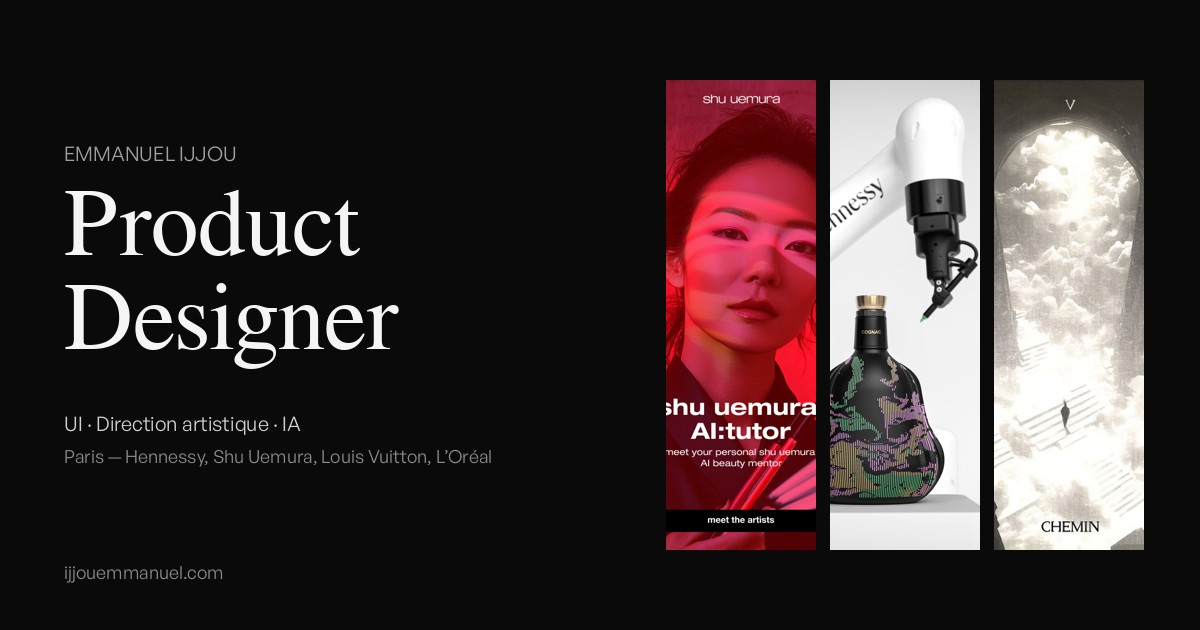
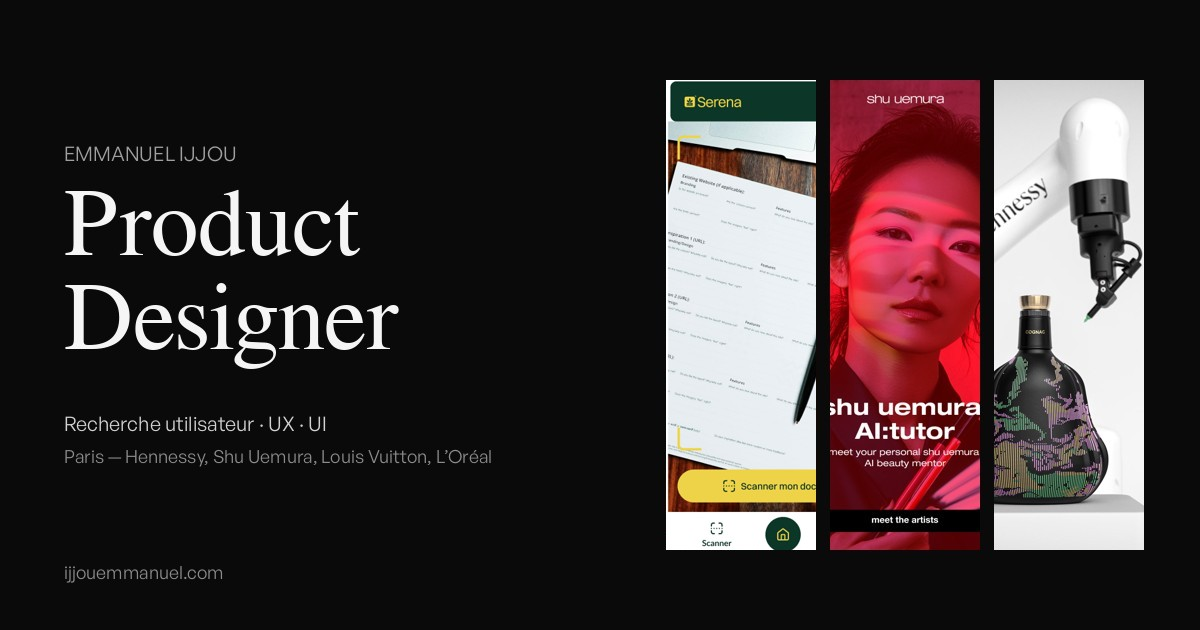
Positionnement produit : 2 groupes de projets, textes recentrés UX
- Accueil : « Product design » (Serena, Shu Uemura, Hennessy, Z_Lab) puis
  intertitre « Explorations visuelles » (PAF, Aether, Pleated, SPECTRE,
  Recherche IA) ; nom du groupe à côté du compteur
- Projets IA d'OKCC (SPECTRE, Recherche IA) en fin de liste
- Accroche accueil, titre À propos, description et image d'aperçu orientés
  recherche utilisateur / UX / UI

Claude-Session: https://claude.ai/code/session_01MDN3kr23zT31hCffwKUxgJ

Changed region(s): [[0.555, 0.1206, 0.9558, 0.8746], [0.0617, 0.6635, 0.2775, 0.6937], [0.925, 0.8444, 0.9558, 0.8746]]

diff --git a/src/app/page.tsx b/src/app/page.tsx
@@ -1,6 +1,6 @@
 'use client';
 
-import { RefObject, useEffect, useRef, useState } from 'react';
+import { Fragment, RefObject, useEffect, useRef, useState } from 'react';
 import { motion, useScroll, useTransform } from 'framer-motion';
 import Image from 'next/image';
 import Link from 'next/link';
@@ -104,8 +104,8 @@ function Intro() {
       </h1>
       <p className="text-sm md:text-base text-gray-300 leading-relaxed max-w-md">
         {t(
-          'Je conçois des interfaces et des expériences digitales pour le luxe, la beauté et la tech, de la recherche utilisateur à l’UI, avec l’IA comme outil de création.',
-          'I design interfaces and digital experiences for luxury, beauty and tech, from user research to UI, with AI as a creative tool.'
+          'Je conçois des produits digitaux clairs et utiles : recherche utilisateur, parcours, wireframes, puis UI desktop et mobile.',
+          'I design clear, useful digital products: user research, user flows, wireframes, then desktop and mobile UI.'
         )}
       </p>
       <p className="text-xs text-neutral-400 leading-relaxed max-w-md">
@@ -126,9 +126,33 @@ function Intro() {
   );
 }
 
+function GroupDivider() {
+  const t = useT();
+  return (
+    <motion.section
+      className="w-[78vw] md:w-[30vw] flex-shrink-0 flex flex-col justify-center gap-5 md:gap-6 border-l border-neutral-800 pl-6 md:pl-10"
+      initial={{ opacity: 0 }}
+      whileInView={{ opacity: 1 }}
+      transition={{ duration: 1 }}
+    >
+      <span className="text-[0.7rem] uppercase tracking-widest text-neutral-400">{t('Au-delà du produit', 'Beyond product')}</span>
+      <h2 className="text-[9vw] md:text-[3.2vw] leading-[1.05] font-ivy font-light tracking-tight">
+        {t('Explorations visuelles', 'Visual explorations')}
+      </h2>
+      <p className="text-sm text-gray-300 leading-relaxed max-w-sm">
+        {t(
+          'Projets personnels et projets de studio où j’explore l’image : direction artistique, motion, édition et IA générative.',
+          'Personal and studio projects where I explore imagery: art direction, motion, editorial and generative AI.'
+        )}
+      </p>
+    </motion.section>
+  );
+}
+
 export default function Home() {
   const scrollRef = useRef<HTMLDivElement>(null);
   const cardRefs = useRef<(HTMLDivElement | null)[]>([]);
+  const t = useT();
   const [active, setActive] = useState(0);
   const { scrollXProgress } = useScroll({ container: scrollRef, axis: 'x' });
 
@@ -212,8 +236,13 @@ export default function Home() {
           <Intro />
         </div>
         {projects.map((project, i) => (
+          <Fragment key={project.link}>
+          {project.group === 'explorations' && projects[i - 1]?.group === 'product' && (
+            <div className="snap-center flex-shrink-0">
+              <GroupDivider />
+            </div>
+          )}
           <div
-            key={project.link}
             ref={(el) => {
               cardRefs.current[i] = el;
             }}
@@ -221,6 +250,7 @@ export default function Home() {
           >
             <ProjectSection project={project} index={i} containerRef={scrollRef} />
           </div>
+          </Fragment>
         ))}
       </div>
 
@@ -230,8 +260,14 @@ export default function Home() {
           <motion.div className="h-full bg-white origin-left" style={{ scaleX: scrollXProgress }} />
         </div>
         <div className="flex justify-between items-center text-[0.65rem] md:text-xs tracking-widest text-neutral-400">
-          <span className="tabular-nums">
+          <span className="tabular-nums uppercase">
             <span className="text-white">{String(active + 1).padStart(2, '0')}</span> / {String(projects.length).padStart(2, '0')}
+            <span className="hidden sm:inline">
+              {'  ·  '}
+              {projects[active]?.group === 'product'
+                ? 'Product design'
+                : t('Explorations visuelles', 'Visual explorations')}
+            </span>
           </span>
           <span>© {new Date().getFullYear()} Emmanuel Ijjou</span>
         </div>

diff --git a/src/components/projects.ts b/src/components/projects.ts
@@ -5,6 +5,7 @@ export type Project = {
   link: string;
   /** Cover already contains text (logo, tagline): blur it more so it doesn't clash with the card title */
   softCover?: boolean;
+  group: 'product' | 'explorations';
 };
 
 const same = (s: string) => ({ fr: s, en: s });
@@ -12,7 +13,7 @@ const same = (s: string) => ({ fr: s, en: s });
 /**
  * Single source of truth for project order.
  * Used by the home carousel and by the "Next project" link on each case study.
- * Product / UI case studies come first.
+ * Product design case studies first, then visual explorations (OKCC AI projects last).
  */
 export const projects: Project[] = [
   {
@@ -20,6 +21,7 @@ export const projects: Project[] = [
     subtitle: { fr: '2025 — Recherche, wireframes & UI', en: '2025 — Research, wireframes & UI' },
     image: '/serena-cover.png',
     link: '/serena',
+    group: 'product',
     softCover: true,
   },
   {
@@ -27,48 +29,56 @@ export const projects: Project[] = [
     subtitle: { fr: '2025 — UI Design, coach beauté IA', en: '2025 — UI design, AI beauty tutor' },
     image: '/shu-flow-01-cover.png',
     link: '/shu-uemura',
+    group: 'product',
   },
   {
     title: same('Hennessy X.O Second Skin'),
     subtitle: { fr: '2025 — UI Design, 3D', en: '2025 — UI design, 3D' },
     image: '/hennessy.png',
     link: '/hennessy',
+    group: 'product',
   },
   {
     title: same('Z_Lab'),
     subtitle: { fr: '2025 — Refonte de site, UI/UX', en: '2025 — Website redesign, UI/UX' },
     image: '/1.png',
     link: '/z_lab',
+    group: 'product',
   },
   {
     title: same('Post Archive Faction'),
     subtitle: { fr: '2025 — Direction créative, UI & motion', en: '2025 — Creative direction, UI & motion' },
     image: '/PAF1.png',
     link: '/post-archive-faction',
-  },
-  {
-    title: same('SPECTRE'),
-    subtitle: { fr: '2025 — Design éditorial, direction artistique IA', en: '2025 — Editorial design, AI art direction' },
-    image: '/spectre1.png',
-    link: '/spectre',
+    group: 'explorations',
   },
   {
     title: same('Aether'),
     subtitle: { fr: '2024 — Design system, jeu de tarot', en: '2024 — Design system, tarot deck' },
     image: '/AETHERCOVER.png',
     link: '/aether',
-  },
-  {
-    title: { fr: 'Recherche visuelle IA', en: 'AI Visual Research' },
-    subtitle: { fr: '2025 — Motion, direction artistique IA', en: '2025 — Motion, AI art direction' },
-    image: '/f1-cover.png',
-    link: '/ai-research',
+    group: 'explorations',
   },
   {
     title: same('Pleated Assortment'),
     subtitle: { fr: '2024 — Direction créative, UI/UX', en: '2024 — Creative direction, UI/UX' },
     image: '/pleatedcover.png',
     link: '/pleated',
+    group: 'explorations',
+  },
+  {
+    title: same('SPECTRE'),
+    subtitle: { fr: '2025 — Design éditorial, direction artistique IA', en: '2025 — Editorial design, AI art direction' },
+    image: '/spectre1.png',
+    link: '/spectre',
+    group: 'explorations',
+  },
+  {
+    title: { fr: 'Recherche visuelle IA', en: 'AI Visual Research' },
+    subtitle: { fr: '2025 — Motion, direction artistique IA', en: '2025 — Motion, AI art direction' },
+    image: '/f1-cover.png',
+    link: '/ai-research',
+    group: 'explorations',
   },
 ];
 

diff --git a/src/app/about/layout.tsx b/src/app/about/layout.tsx
@@ -2,8 +2,8 @@ import type { Metadata } from 'next';
 
 export const metadata: Metadata = {
   title: 'À propos',
-  description: 'Emmanuel Ijjou, Product Designer à Paris formé chez OKCC : UI, direction artistique et IA.',
-  openGraph: { title: 'À propos — Emmanuel Ijjou', description: 'Emmanuel Ijjou, Product Designer à Paris formé chez OKCC : UI, direction artistique et IA.', url: '/about', images: [{ url: '/og.jpg', width: 1200, height: 630 }] },
+  description: 'Emmanuel Ijjou, Product Designer à Paris formé chez OKCC : recherche utilisateur, UX et UI.',
+  openGraph: { title: 'À propos — Emmanuel Ijjou', description: 'Emmanuel Ijjou, Product Designer à Paris formé chez OKCC : recherche utilisateur, UX et UI.', url: '/about', images: [{ url: '/og.jpg', width: 1200, height: 630 }] },
 };
 
 export default function Layout({ children }: { children: React.ReactNode }) {

diff --git a/src/app/about/page.tsx b/src/app/about/page.tsx
@@ -96,8 +96,8 @@ export default function AboutPage() {
           </span>
           <h1 className="text-4xl md:text-7xl font-ivy font-light tracking-tight leading-[1.05] max-w-4xl">
             {t(
-              'Product Designer à Paris, entre interface, direction artistique et IA.',
-              'Product Designer in Paris, between interface, art direction and AI.'
+              'Product Designer à Paris, de la recherche utilisateur à l’interface.',
+              'Product Designer in Paris, from user research to interface.'
             )}
           </h1>
           <div className="grid grid-cols-1 md:grid-cols-12 gap-6 md:gap-8">

diff --git a/src/app/layout.tsx b/src/app/layout.tsx
@@ -4,7 +4,7 @@ import Cursor from '@/components/Cursor';
 import { LangProvider } from '@/components/i18n';
 
 const description =
-  'Portfolio d’Emmanuel Ijjou, Product Designer à Paris : UI, direction artistique et IA pour le luxe, la beauté et la tech.';
+  'Portfolio d’Emmanuel Ijjou, Product Designer à Paris : recherche utilisateur, UX et UI pour le luxe, la beauté et la tech.';
 
 export const metadata: Metadata = {
   metadataBase: new URL('https://www.ijjouemmanuel.com'),
